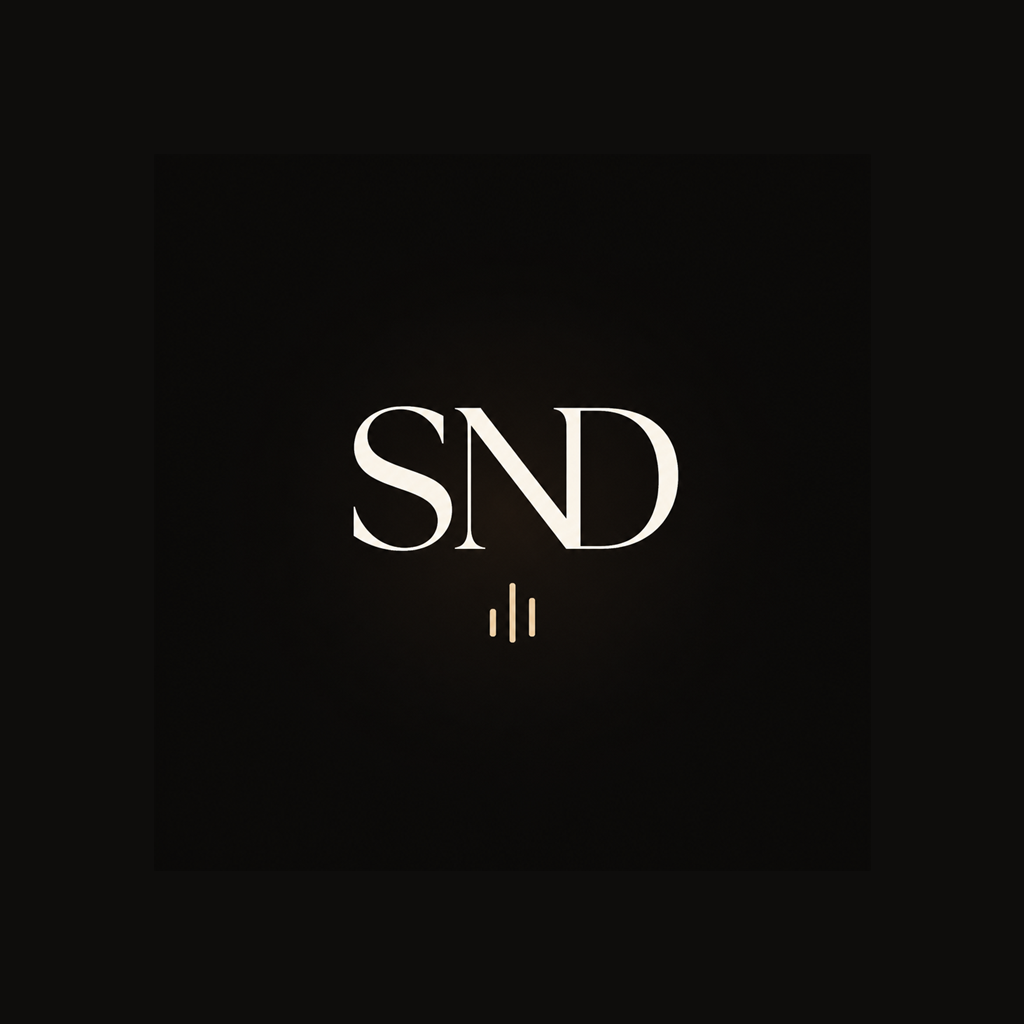
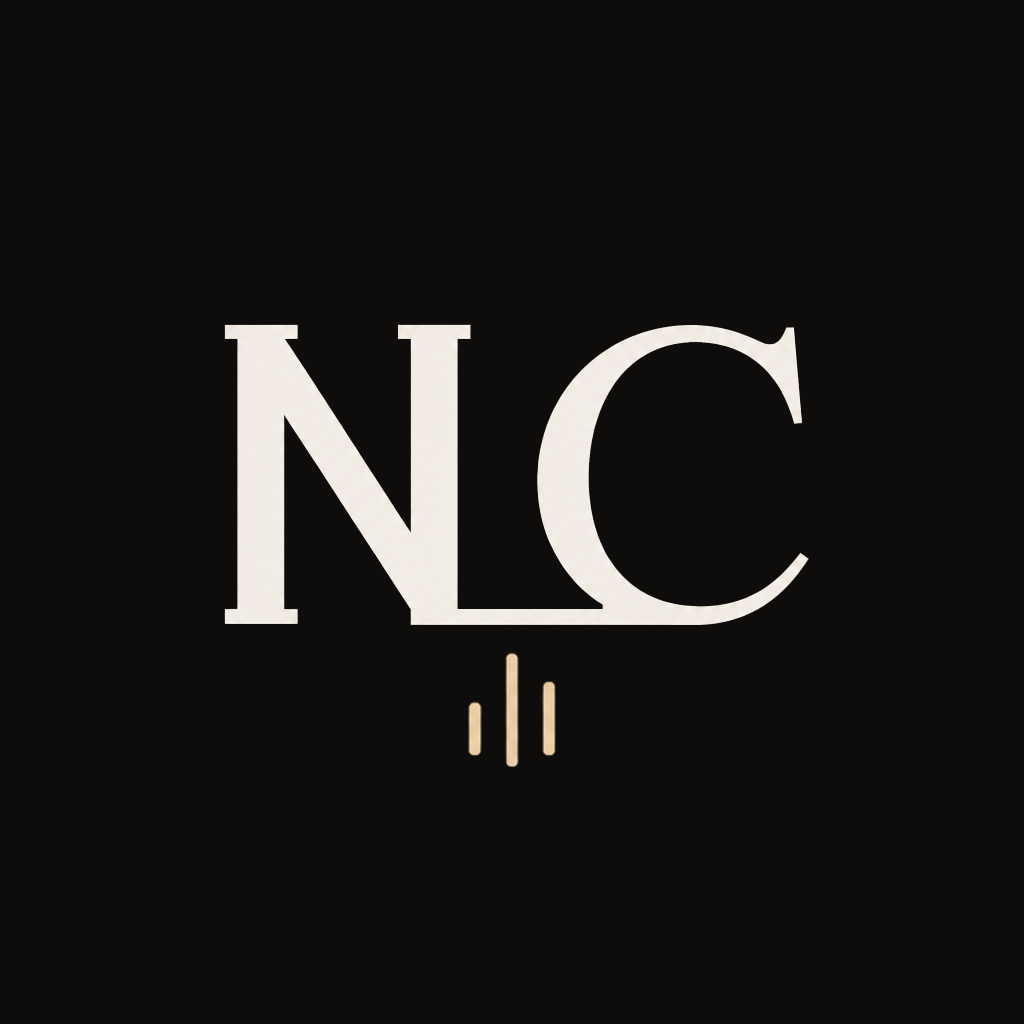
feat: rebrand the product from SND to NLC

Changed region(s): [[0.2188, 0.3125, 0.7812, 0.75], [0.625, 0.4062, 0.6875, 0.5312]]

diff --git a/app.config.js b/app.config.js
@@ -2,15 +2,15 @@ const pkg = require("./package.json");
 const fs = require("fs");
 const path = require("path");
 
-const EAS_PROJECT_ID = "1015393c-2e99-4548-8336-a256a97dbecc";
+const EAS_PROJECT_ID = "eaae8e25-f5ae-48b4-9ca5-1023d77701f7";
 const googleServices = fs.existsSync(path.join(__dirname, "google-services.json"))
   ? "./google-services.json"
   : undefined;
 
 export default {
   expo: {
-    name: "SND",
-    slug: "snd",
+    name: "NLC",
+    slug: "nlc",
     version: pkg.version,
     runtimeVersion: {
       policy: "appVersion",
@@ -20,14 +20,14 @@ export default {
       fallbackToCacheTimeout: 0,
       checkAutomatically: "ON_ERROR_RECOVERY",
     },
-    scheme: "snd",
+    scheme: "nlc",
     orientation: "portrait",
     icon: "./assets/icon.png",
     userInterfaceStyle: "dark",
     newArchEnabled: true,
     android: {
-      package: "app.snd.player",
-      versionCode: 3,
+      package: "app.nlc.player",
+      versionCode: 4,
       softwareKeyboardLayoutMode: "resize",
       usesCleartextTraffic: true,
       adaptiveIcon: {
@@ -93,8 +93,8 @@ export default {
       eas: {
         projectId: EAS_PROJECT_ID,
       },
-      githubReleases: "https://github.com/JuanCarlosGP/SND/releases/latest",
-      githubApk: "https://github.com/JuanCarlosGP/SND/releases/latest/download/SND.apk",
+      githubReleases: "https://github.com/JuanCarlosGP/NLC/releases/latest",
+      githubApk: "https://github.com/JuanCarlosGP/NLC/releases/latest/download/NLC.apk",
     },
   },
 };

diff --git a/src/lib/cursor/api.ts b/src/lib/cursor/api.ts
@@ -111,7 +111,7 @@ export async function createCursorAgent(
   const response = await cursorFetch(apiKey, "/agents", {
     method: "POST",
     body: JSON.stringify({
-      name: "SND",
+      name: "NLC",
       prompt: { text },
     }),
   });
@@ -170,13 +170,13 @@ export async function waitForCursorRun(
   return current;
 }
 
-export const SND_AGENT_PREAMBLE = `Eres el asistente de SND. Responde en español, breve y práctico. PUEDES HACER cambios: la app ejecutará un bloque de acciones.
+export const NLC_AGENT_PREAMBLE = `Eres el asistente de NLC. Responde en español, breve y práctico. PUEDES HACER cambios: la app ejecutará un bloque de acciones.
 
 Cuando el usuario pida crear, mover, anotar, borrar, renombrar, destacar o cambiar de zona, responde en prosa Y al final este bloque (sin markdown):
 
-[[[SND]]]
+[[[NLC]]]
 {"actions":[{"op":"create_task","title":"Comprar leche","project":"Bandeja","due":"today"}]}
-[[[/SND]]]
+[[[/NLC]]]
 
 Ops:
 - create_task {title, project?, notes?, status?, due?, starred?}
@@ -203,7 +203,7 @@ status = todo|doing|done (por hacer / en curso / hecho).
 append_notes = añade una nota a la tarea (para "anota que…").
 Si solo pregunta, no pongas bloque. Si pide varias cosas, varias actions.
 
-Hechos de SND:
+Hechos de NLC:
 - Fuente habitual: WebDAV 192.168.1.106:5005, usuario Viewer, carpeta /Music.
 - Portada: jpg con el mismo nombre que el audio. En dumps no se hereda cover.jpg de carpeta.
 - Podcast plano = un álbum por episodio.

diff --git a/src/components/chat/chat-sheet.tsx b/src/components/chat/chat-sheet.tsx
@@ -53,7 +53,7 @@ const UTILITIES: { id: string; label: string; hint: string; draft: string }[] = 
     label: "Carátula de canción",
     hint: "Jpg con el mismo nombre que el audio",
     draft:
-      "La canción «título» no tiene carátula. En SND la portada es un jpg al lado del mp3, mismo nombre. ¿Qué archivo pongo y en qué carpeta?",
+      "La canción «título» no tiene carátula. En NLC la portada es un jpg al lado del mp3, mismo nombre. ¿Qué archivo pongo y en qué carpeta?",
   },
   {
     id: "cover-podcast",
@@ -95,7 +95,7 @@ const UTILITIES: { id: string; label: string; hint: string; draft: string }[] = 
     label: "Playlist de Spotify",
     hint: "Importar y matchear contra el NAS",
     draft:
-      "Quiero importar esta playlist: «URL». SND no reproduce Spotify: la matchea con lo que hay en /Music. ¿Pasos en Biblioteca → +?",
+      "Quiero importar esta playlist: «URL». NLC no reproduce Spotify: la matchea con lo que hay en /Music. ¿Pasos en Biblioteca → +?",
   },
   {
     id: "onepiece",
@@ -184,7 +184,7 @@ function ChatSheetBody() {
       <View style={[styles.header, { borderBottomColor: colors.rule }]}>
         <View style={styles.headerText}>
           <Text style={styles.title}>Mensajes</Text>
-          <Text style={styles.description}>Agente SND · Cursor</Text>
+          <Text style={styles.description}>Agente NLC · Cursor</Text>
         </View>
         <View style={styles.headerActions}>
           <Pressable

diff --git a/src/components/settings/download-sheet.tsx b/src/components/settings/download-sheet.tsx
@@ -25,7 +25,7 @@ import { colors, fonts, type } from "@/lib/theme";
 const YTDLP_COMPOSE = `services:
   podcast-downloader:
     image: python:3.12-slim
-    container_name: snd-podcast-downloader
+    container_name: nlc-podcast-downloader
     working_dir: /app
     restart: unless-stopped
     ports:
@@ -40,7 +40,7 @@ const YTDLP_COMPOSE = `services:
       AUTH_TOKEN: ""
       MAX_WORKERS: "2"
     volumes:
-      - /volume1/Music/snd-downloader-app:/app
+      - /volume1/Music/nlc-downloader-app:/app
       - /volume1/Music:/library
       - /volume1/Popcorn:/video
     command:
@@ -299,7 +299,7 @@ const HELP_STEPS = [
   },
   {
     title: "App del downloader",
-    body: "Copia nas/podcast-downloader a /volume1/Music/snd-downloader-app (app.py y requirements.txt).",
+    body: "Copia nas/podcast-downloader a /volume1/Music/nlc-downloader-app (app.py y requirements.txt).",
   },
   {
     title: "Compose",
@@ -310,8 +310,8 @@ const HELP_STEPS = [
     body: "Arranca el stack y espera a que instale ffmpeg y yt-dlp.",
   },
   {
-    title: "Conectar SND",
-    body: "Abre http://IP-DEL-NAS:8091/health. En SND usa esa IP, puerto 8091 y el mismo AUTH_TOKEN (vacío si no hay token).",
+    title: "Conectar NLC",
+    body: "Abre http://IP-DEL-NAS:8091/health. En NLC usa esa IP, puerto 8091 y el mismo AUTH_TOKEN (vacío si no hay token).",
   },
 ] as const;
 

diff --git a/src/lib/ota/github-apk.ts b/src/lib/ota/github-apk.ts
@@ -1,9 +1,9 @@
 const GITHUB_RELEASE =
-  "https://api.github.com/repos/JuanCarlosGP/SND/releases/tags/apk";
-const GITHUB_LATEST = "https://api.github.com/repos/JuanCarlosGP/SND/releases/latest";
+  "https://api.github.com/repos/JuanCarlosGP/NLC/releases/tags/apk";
+const GITHUB_LATEST = "https://api.github.com/repos/JuanCarlosGP/NLC/releases/latest";
 
 export const GITHUB_APK_DOWNLOAD =
-  "https://github.com/JuanCarlosGP/SND/releases/latest/download/SND.apk";
+  "https://github.com/JuanCarlosGP/NLC/releases/latest/download/NLC.apk";
 
 export type RemoteApk = {
   version: string;
@@ -38,7 +38,7 @@ function parseRelease(payload: {
   body?: string | null;
 }): RemoteApk | null {
   const title = `${payload.name ?? ""} ${payload.tag_name ?? ""} ${payload.body ?? ""}`;
-  const named = title.match(/SND\s+(\d+\.\d+\.\d+)\s+\((\d+)\)/i);
+  const named = title.match(/(?:NLC|SND)\s+(\d+\.\d+\.\d+)\s+\((\d+)\)/i);
   if (named) {
     return { version: named[1]!, versionCode: Number(named[2]), notes: payload.body?.trim() ?? "" };
   }

diff --git a/src/lib/cursor/actions.ts b/src/lib/cursor/actions.ts
@@ -61,7 +61,7 @@ export type AssistantRuntime = {
 
 export type ActionResult = { ok: boolean; message: string };
 
-const ACTION_BLOCK = /\[\[\[SND\]\]\]([\s\S]*?)\[\[\[\/SND\]\]\]/g;
+const ACTION_BLOCK = /\[\[\[(?:NLC|SND)\]\]\]([\s\S]*?)\[\[\[\/(?:NLC|SND)\]\]\]/g;
 
 function normalize(value: string): string {
   return value
@@ -210,9 +210,9 @@ export function extractAssistantActions(reply: string): { actions: AssistantActi
       // ignore malformed blocks
     }
   }
-  visible = visible.replace(/```(?:json|snd)?\s*\{[\s\S]*?"actions"[\s\S]*?\}\s*```/gi, (block) => {
+  visible = visible.replace(/```(?:json|nlc|snd)?\s*\{[\s\S]*?"actions"[\s\S]*?\}\s*```/gi, (block) => {
     try {
-      const json = block.replace(/```(?:json|snd)?/gi, "").replace(/```/g, "").trim();
+      const json = block.replace(/```(?:json|nlc|snd)?/gi, "").replace(/```/g, "").trim();
       const parsed = JSON.parse(json) as { actions?: AssistantAction[] };
       if (Array.isArray(parsed.actions)) actions.push(...parsed.actions);
     } catch {

diff --git a/src/app/(tabs)/index.tsx b/src/app/(tabs)/index.tsx
@@ -41,7 +41,7 @@ export default function HomeScreen() {
   const { playTracks } = usePlayer();
   const { zone } = useZone();
   const [sortOpen, setSortOpen] = useState(false);
-  const { sort, viewMode, setSort, setViewMode, ready: browseReady } = useBrowsePrefs("snd.home.browse.v1");
+  const { sort, viewMode, setSort, setViewMode, ready: browseReady } = useBrowsePrefs("nlc.home.browse.v1");
   const grid = viewMode === "grid";
   const podcast = zone === "podcast";
   const video = zone === "video";
@@ -202,7 +202,7 @@ export default function HomeScreen() {
     <>
       <Screen>
         <View style={styles.hero}>
-          <Text style={[type.pageTitle, styles.title]}>SND</Text>
+          <Text style={[type.pageTitle, styles.title]}>NLC</Text>
           <ZoneSwitch />
         </View>
 

diff --git a/src/components/ui/error-boundary.tsx b/src/components/ui/error-boundary.tsx
@@ -13,14 +13,14 @@ export class ErrorBoundary extends Component<Props, State> {
   }
 
   componentDidCatch(error: Error, info: ErrorInfo) {
-    console.error("SND crash", error, info.componentStack);
+    console.error("NLC crash", error, info.componentStack);
   }
 
   render() {
     if (!this.state.error) return this.props.children;
     return (
       <View style={styles.fill}>
-        <Text style={styles.title}>SND no pudo abrir</Text>
+        <Text style={styles.title}>NLC no pudo abrir</Text>
         <Text style={styles.body}>Copia este texto y lo vemos. No es el NAS: falló al arrancar.</Text>
         <ScrollView style={styles.box} contentContainerStyle={styles.boxInner}>
           <Text selectable style={styles.stack}>

diff --git a/src/lib/cursor/cursor-context.tsx b/src/lib/cursor/cursor-context.tsx
@@ -9,7 +9,7 @@ import {
 } from "react";
 import { colors } from "@/lib/theme";
 import {
-  SND_AGENT_PREAMBLE,
+  NLC_AGENT_PREAMBLE,
   createCursorAgent,
   createCursorRun,
   isTerminalRun,
@@ -139,7 +139,7 @@ export function CursorProvider({ children }: { children: ReactNode }) {
 
       try {
         const snapshot = await buildAssistantSnapshot(zone).catch(() => "Estado no disponible.");
-        const prompt = `${SND_AGENT_PREAMBLE}\n\nEstado actual de la app:\n${snapshot}\n\nMensaje del usuario:\n${text}`;
+        const prompt = `${NLC_AGENT_PREAMBLE}\n\nEstado actual de la app:\n${snapshot}\n\nMensaje del usuario:\n${text}`;
         let nextAgent = agentId;
         let runId = "";
         if (!nextAgent) {

diff --git a/src/lib/podcasts/downloader.ts b/src/lib/podcasts/downloader.ts
@@ -52,7 +52,7 @@ async function readError(response: Response): Promise<string> {
       const msg = first.msg || "Error de validación";
       // Old downloader only accepted `url` — new app sends `query` (+ duration).
       if (/field required/i.test(msg) && (!loc || loc === "url")) {
-        return "El downloader del NAS está desactualizado. Reinicia el contenedor snd-podcast-downloader en Container Manager.";
+        return "El downloader del NAS está desactualizado. Reinicia el contenedor nlc-podcast-downloader en Container Manager.";
       }
       return loc ? `${loc}: ${msg}` : msg;
     }

diff --git a/src/lib/db/migrate-legacy.ts b/src/lib/db/migrate-legacy.ts
@@ -4,10 +4,10 @@ import type { Track } from "@/lib/nas/types";
 import { isPodcastTrack } from "@/lib/nas/webdav";
 import type { ImportedPlaylist } from "@/lib/spotify/types";
 
-const FLAG = "snd.catalog.migrated.v1";
-const RECENTS_KEY = "snd.recents.v1";
-const FAVORITES_KEY = "snd.favorites.v1";
-const PLAYLISTS_KEY = "snd.imported-playlists.v1";
+const FLAG = "nlc.catalog.migrated.v1";
+const RECENTS_KEY = "nlc.recents.v1";
+const FAVORITES_KEY = "nlc.favorites.v1";
+const PLAYLISTS_KEY = "nlc.imported-playlists.v1";
 
 async function readJson<T>(key: string, fallback: T): Promise<T> {
   try {

diff --git a/src/lib/ota/apply-update.ts b/src/lib/ota/apply-update.ts
@@ -57,5 +57,5 @@ export function isApkNotification(data: Record<string, unknown> | undefined | nu
   return flag === true || flag === "true" || flag === "1" || flag === 1;
 }
 
-export const GITHUB_APK_URL = "https://github.com/JuanCarlosGP/SND/releases/latest/download/SND.apk";
-export const GITHUB_RELEASES_URL = "https://github.com/JuanCarlosGP/SND/releases/latest";
+export const GITHUB_APK_URL = "https://github.com/JuanCarlosGP/NLC/releases/latest/download/NLC.apk";
+export const GITHUB_RELEASES_URL = "https://github.com/JuanCarlosGP/NLC/releases/latest";
